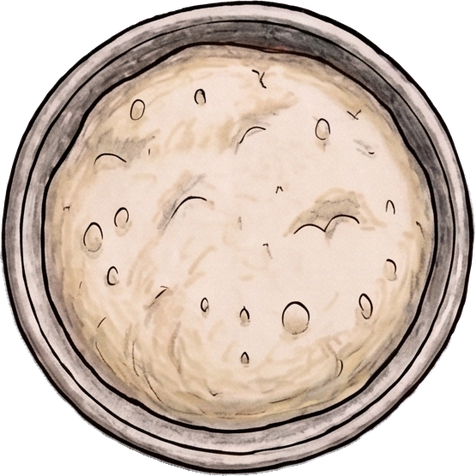
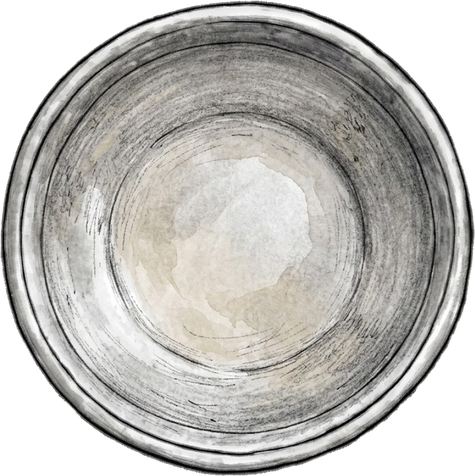
feat: redraw the dough bowl empty and close toppings once baking starts
Cut the empty dough bowl and its label from a new drawing onto the old bowl's spot, sharing the scale-onto-sheet helper with the bins, and show the dough ball in it at a tunable size only until it's picked up, so the bowl stays empty until the next pizza. Toppings now close for the pizza once the bake level passes a tunable cutoff, putting down anything in hand until the dough is reset.

diff --git a/src/scenes/KitchenScene.ts b/src/scenes/KitchenScene.ts
@@ -44,6 +44,8 @@ export class KitchenScene extends Container {
   private readonly peel = artSprite('peel');
   private readonly bowl = artSprite('bowl');
   private readonly bowlLabel = artSprite('label_dough');
+  /** The dough ball waiting in the bowl; the bowl is empty once it's picked up. */
+  private readonly bowlFill = new Sprite(artTexture('dough_ball'));
   private readonly heldBall = makeDoughBall();
   private readonly held = new Sprite();
   private readonly fire = artSprite('fire');
@@ -56,6 +58,8 @@ export class KitchenScene extends Container {
   private dropElapsed = 0;
   private doughPhase: DoughPhase = 'inBowl';
   private doughReady = false;
+  /** Baked past the toppings cutoff; toppings stay closed until the next pizza. */
+  private toppingsClosed = false;
   private available = new Set<IngredientId>();
   /** Ingredient in hand, picked from its bin. */
   private tool: IngredientId | null = null;
@@ -105,6 +109,7 @@ export class KitchenScene extends Container {
   /** Back to an empty peel with the dough in its bowl. */
   resetDough(): void {
     this.bakeLevel = 0;
+    this.toppingsClosed = false;
     this.doughPhase = 'inBowl';
     this.heldBall.visible = false;
     this.dough.reset();
@@ -139,6 +144,13 @@ export class KitchenScene extends Container {
       this.updateFire(dt);
       if (this.doughReady) this.bakeLevel = Math.min(1, this.bakeLevel + dt / BAKE.secondsToBurnt);
     }
+    if (!this.toppingsClosed && this.bakeLevel > BAKE.toppingsCutoff) {
+      this.toppingsClosed = true;
+      this.applyAvailability();
+    }
+    const inBowl = this.doughPhase === 'inBowl';
+    this.bowlFill.visible = inBowl;
+    this.bowl.cursor = inBowl ? 'pointer' : 'default';
     this.gauge.setLevel(this.bakeLevel);
     this.bakeButton.layout();
     this.bakeButton.setState(this.doughReady, this.fire.visible);
@@ -244,7 +256,7 @@ export class KitchenScene extends Container {
   }
 
   private applyAvailability(): void {
-    this.available = new Set<IngredientId>(this.doughReady ? TOPPINGS_READY : []);
+    this.available = new Set<IngredientId>(this.doughReady && !this.toppingsClosed ? TOPPINGS_READY : []);
     this.bins.forEach((bin) => bin.setAvailable(this.available));
     if (this.tool && !this.available.has(this.tool)) this.setTool(null);
   }
@@ -266,18 +278,23 @@ export class KitchenScene extends Container {
   private buildBowl(): void {
     const { bowl } = this;
     bowl.eventMode = 'static';
-    bowl.cursor = 'pointer';
     bowl.on('pointerdown', this.pickUpDough, this);
-    this.addChild(bowl, this.bowlLabel);
+    // Presses on the dough go to the bowl
+    this.bowlFill.anchor.set(0.5);
+    this.bowlFill.eventMode = 'none';
+    this.addChild(bowl, this.bowlFill, this.bowlLabel);
     this.layoutBowl();
   }
 
-  /** Place the bowl and its label from config. */
+  /** Place the bowl, its dough and its label from config. */
   layoutBowl(): void {
     for (const [sprite, name] of [[this.bowl, 'bowl'], [this.bowlLabel, 'label_dough']] as const) {
       const drawn = artPoint(name, 0, 0);
       sprite.position.set(drawn.x + BOWL.x, drawn.y + BOWL.y);
     }
+    const center = artPoint('bowl', 0.5, 0.5);
+    this.bowlFill.position.set(center.x + BOWL.x, center.y + BOWL.y);
+    this.bowlFill.scale.set((BOWL.fillWidth * this.bowl.width) / this.bowlFill.texture.width);
   }
 
   private buildPeel(): void {

diff --git a/src/config.ts b/src/config.ts
@@ -44,10 +44,12 @@ export const BIN_LAYOUT = {
   bin3Enabled: true,
 };
 
-// Dough bowl and its label: nudge from their drawn spot, in design px
+// Dough bowl and its label: nudge from their drawn spot, in design px. The dough ball sits in the empty bowl at
+// fillWidth (a fraction of the bowl's width) until picked up, and returns with the next pizza
 export const BOWL = {
   x: 0,
   y: 0,
+  fillWidth: 0.72,
 };
 
 // Peel: nudge from its drawn spot in design px (the dough moves with it), and its face center as fractions of the art
@@ -157,11 +159,13 @@ export const HELD = {
 
 // Doneness rises linearly while the dragon breathes fire on rolled dough, raw at 0 to burnt at 1; the dial shows it.
 // The art cross-fades raw to baked up to optimalLevel, where it looks fully baked, then baked to burnt, eased by
-// easePower: 1 is linear; higher rushes the art through raw and burnt and lingers around optimalLevel
+// easePower: 1 is linear; higher rushes the art through raw and burnt and lingers around optimalLevel.
+// Once baked past toppingsCutoff, toppings close for this pizza
 export const BAKE = {
   secondsToBurnt: 8,
   optimalLevel: 0.694,
   easePower: 1.5,
+  toppingsCutoff: 0.05,
 };
 
 // Dial between the peel and the dragon's feet: hub position and drawn width; hub and needle pivot are fractions of their art

diff --git a/src/dev/tuningPanel.ts b/src/dev/tuningPanel.ts
@@ -86,6 +86,7 @@ export function createTuningPanel(scene: KitchenScene): void {
   const bowl = pane.addFolder({ title: 'Bowl', expanded: false });
   bowl.addBinding(BOWL, 'x', { min: -200, max: 200, step: 1 });
   bowl.addBinding(BOWL, 'y', { min: -200, max: 200, step: 1 });
+  bowl.addBinding(BOWL, 'fillWidth', { min: 0.2, max: 1 });
   bowl.on('change', () => scene.layoutBowl());
 
   const peel = pane.addFolder({ title: 'Peel', expanded: false });
@@ -118,6 +119,7 @@ export function createTuningPanel(scene: KitchenScene): void {
   setInterval(() => bakeLevel.refresh(), BAKE_LEVEL_REFRESH_MS);
   bake.addBinding(BAKE, 'secondsToBurnt', { min: 1, max: 40 });
   bake.addBinding(BAKE, 'optimalLevel', { min: 0.05, max: 0.95 });
+  bake.addBinding(BAKE, 'toppingsCutoff', { min: 0, max: 1 });
   bake.addBinding(BAKE, 'easePower', { min: 1, max: 5 });
   bake.addBinding(BAKE_GAUGE, 'sweep', { min: 0, max: Math.PI / 2 });
 

diff --git a/tools/art/extract.py b/tools/art/extract.py
@@ -42,7 +42,9 @@ BG_QUALITY = 85
 
 # Boxes are (left, top, right, bottom) in source pixels
 BOWL_BOX = (90, 690, 700, 1300)
-DOUGH_LABEL_BOX = (240, 1300, 540, 1440)
+# The dough bowl, drawn empty on its own with its label below (label box in its px); scaled onto the layout bowl's spot
+BOWL_SOURCE = 'pizza_dough_bowl.png'
+BOWL_LABEL_BOX = (200, 820, 680, 1010)
 # Dough drawings for the kneaded dough: (asset, source, ink threshold for a lighter outline, gap seal px)
 DOUGH_PIECES = (('dough_ball', 'pizza_dough_ball.png', 150, 0), ('dough_rolled', 'pizza_dough_rolled.jpeg', INK_LUM, 4))
 DOUGH_TEXTURE_MAX = 1024  # largest texture side, px
@@ -459,17 +461,33 @@ def toppings():
     return names
 
 
+def onto_sheet(mask, sheet_mask, place, f):
+    """put(name, pixels) for a piece drawn on its own, scaled so its mask spans sheet_mask's width at its top-left."""
+    l, t, r, _ = bbox(mask)
+    sl, st, sr, _ = bbox(sheet_mask)
+    s = (sr - sl) / (r - l)
+    origin = (sl - l * s, st - t * s)
+    return lambda name, pixels: place(name, pixels, f * s, origin=origin, src_to_layout=s)
+
+
+def drawn_bowl(sheet_mask, place, f):
+    """The empty dough bowl and its label from their own drawing, scaled onto where the layout's bowl sat."""
+    img = load(BOWL_SOURCE)
+    paper = estimate_paper(img)
+    mask = largest(foreground(img, paper, use_chroma=False))
+    put = onto_sheet(mask, sheet_mask, place, f)
+    put('bowl', cutout(img, paper, mask))
+    near_bowl = ndimage.binary_dilation(mask, iterations=LABEL_CLEARANCE)
+    put('label_dough', rgba(img, paper, lettering(img, paper, BOWL_LABEL_BOX, near_bowl)))
+
+
 def drawn_bin(spec, sheet_mask, place, f):
     """A bin drawn on its own sheets, scaled onto where the sheet's bin sat; fills come from the full drawing aligned to it."""
     empty_src, full_src = spec['drawn']
     empty = load(empty_src)
     paper = estimate_paper(empty)
     mask = largest(foreground(empty, paper, use_chroma=False))
-    l, t, r, _ = bbox(mask)
-    sl, st, sr, _ = bbox(sheet_mask)
-    s = (sr - sl) / (r - l)
-    origin = (sl - l * s, st - t * s)
-    put = lambda name, pixels: place(name, pixels, f * s, origin=origin, src_to_layout=s)
+    put = onto_sheet(mask, sheet_mask, place, f)
     put(spec['name'], cutout(empty, paper, mask))
 
     full = align_to(load(full_src), mask, empty.shape)
@@ -545,12 +563,10 @@ def main():
     bg.save(OUT / 'bg.jpg', quality=BG_QUALITY)
     record('bg', 'bg.jpg')
 
-    # Bowl and its label come straight from the layout
+    # Bowl and its label: drawn on their own; the layout's bowl gives their spot
     layout = load('pizza_layout.jpeg')
     lay_fg = foreground(layout, plate, use_chroma=False)
-    place('label_dough', rgba(layout, plate, lettering(layout, plate, DOUGH_LABEL_BOX)), f)
-    bowl = largest(in_box(lay_fg, BOWL_BOX))
-    place('bowl', cutout(layout, plate, bowl), f)
+    drawn_bowl(largest(in_box(lay_fg, BOWL_BOX)), place, f)
     dough_pieces(record)
     dough_bakes(record)
 
